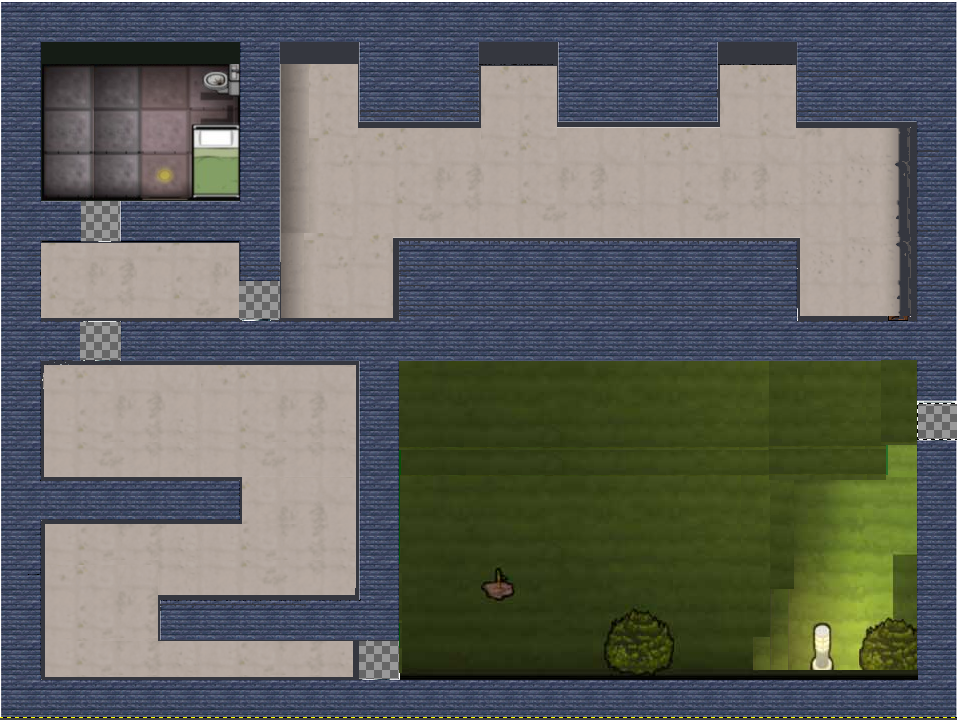
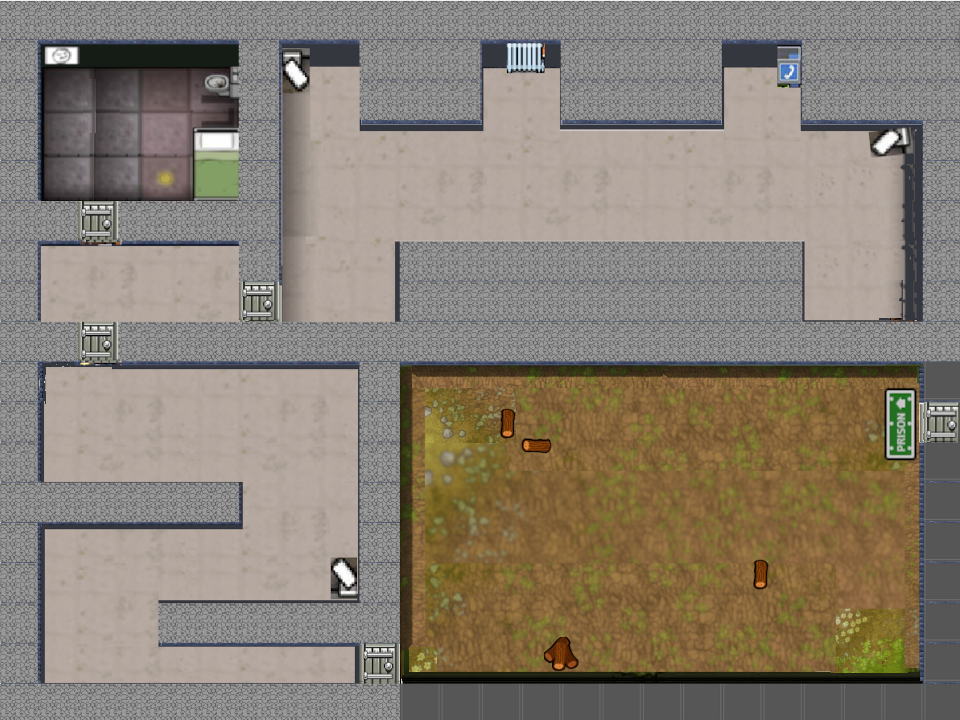
map

diff --git a/src/org/academiadecodigo/felinux/Support/GameObjectType.java b/src/org/academiadecodigo/felinux/Support/GameObjectType.java
@@ -3,10 +3,10 @@ package org.academiadecodigo.felinux.Support;
 import org.academiadecodigo.simplegraphics.graphics.Color;
 
 public enum GameObjectType {
-    FENCE(Color.DARK_GRAY, "resources/Wall/wall.png", "resources/Wall/wall.png", "resources/Wall/wall.png", "resources/Wall/wall.png"),
-    WALL(Color.BLACK, "resources/Wall/wall.png", "resources/Wall/wall.png", "resources/Wall/wall.png", "resources/Wall/wall.png"),
+    FENCE(Color.DARK_GRAY, "resources/floor/GreyFloor.png", "resources/floor/GreyFloor.png", "resources/floor/GreyFloor.png", "resources/floor/GreyFloor.png"),
+    WALL(Color.BLACK, "resources/floor/floorGre.png", "resources/floor/floorGrey.png", "resources/floor/floorGrey.png", "resources/floor/floorGrey.png"),
     BARREL(Color.GRAY, "resources/Barrel/Barrel.png", "resources/Barrel/Barrel.png", "resources/Barrel/Barrel.png", "resources/Barrel/Barrel.png"),
-    KEY(Color.YELLOW, "resources/key/key.png", "resources/key/key.png", "resources/key/key.png", "resources/key/key.png"),
+    KEY(Color.YELLOW, "resources/key/fatKey.png", "resources/key/fatKey.png", "resources/key/fatKey.png", "resources/key/fatKey.png"),
     DOOR(Color.LIGHT_GRAY, "resources/door/ironDoorClose.png", "resources/door/ironDoorClose.png", "resources/door/ironDoorClose.png", "resources/door/ironDoorClose.png"),
     GUARD(Color.BLUE, "resources/Police/BlackPolice/blackPoliceBack.png", "resources/Police/BlackPolice/blackPoliceRight.png", "resources/Police/BlackPolice/blackPoliceFront.png", "resources/Police/BlackPolice/blackPoliceLeft.png"),
     DOG(Color.RED, "resources/Dog/DogUp.png", "resources/Dog/DogRight.png", "resources/Dog/DogDown.png", "resources/Dog/DogLeft.png"),

diff --git a/src/org/academiadecodigo/felinux/Game.java b/src/org/academiadecodigo/felinux/Game.java
@@ -55,7 +55,7 @@ public class Game {
         //this.startScreen = new Map("resources/startingScreen/start-screen.png");
         //this.loadingScreen = new Map("");
         this.startMusic=new Sound("/resources/Sounds/level.wav");
-        this.map = new Map("resources/map/map.png");
+        this.map = new Map("resources/map/MAPA.png");
         this.gameOver = new Map("resources/caughtScreen/gotCaught.png");
         this.theEnd = new Map("resources/wonScreen/wonScreen.png");
         this.movables = new Entity[5];
